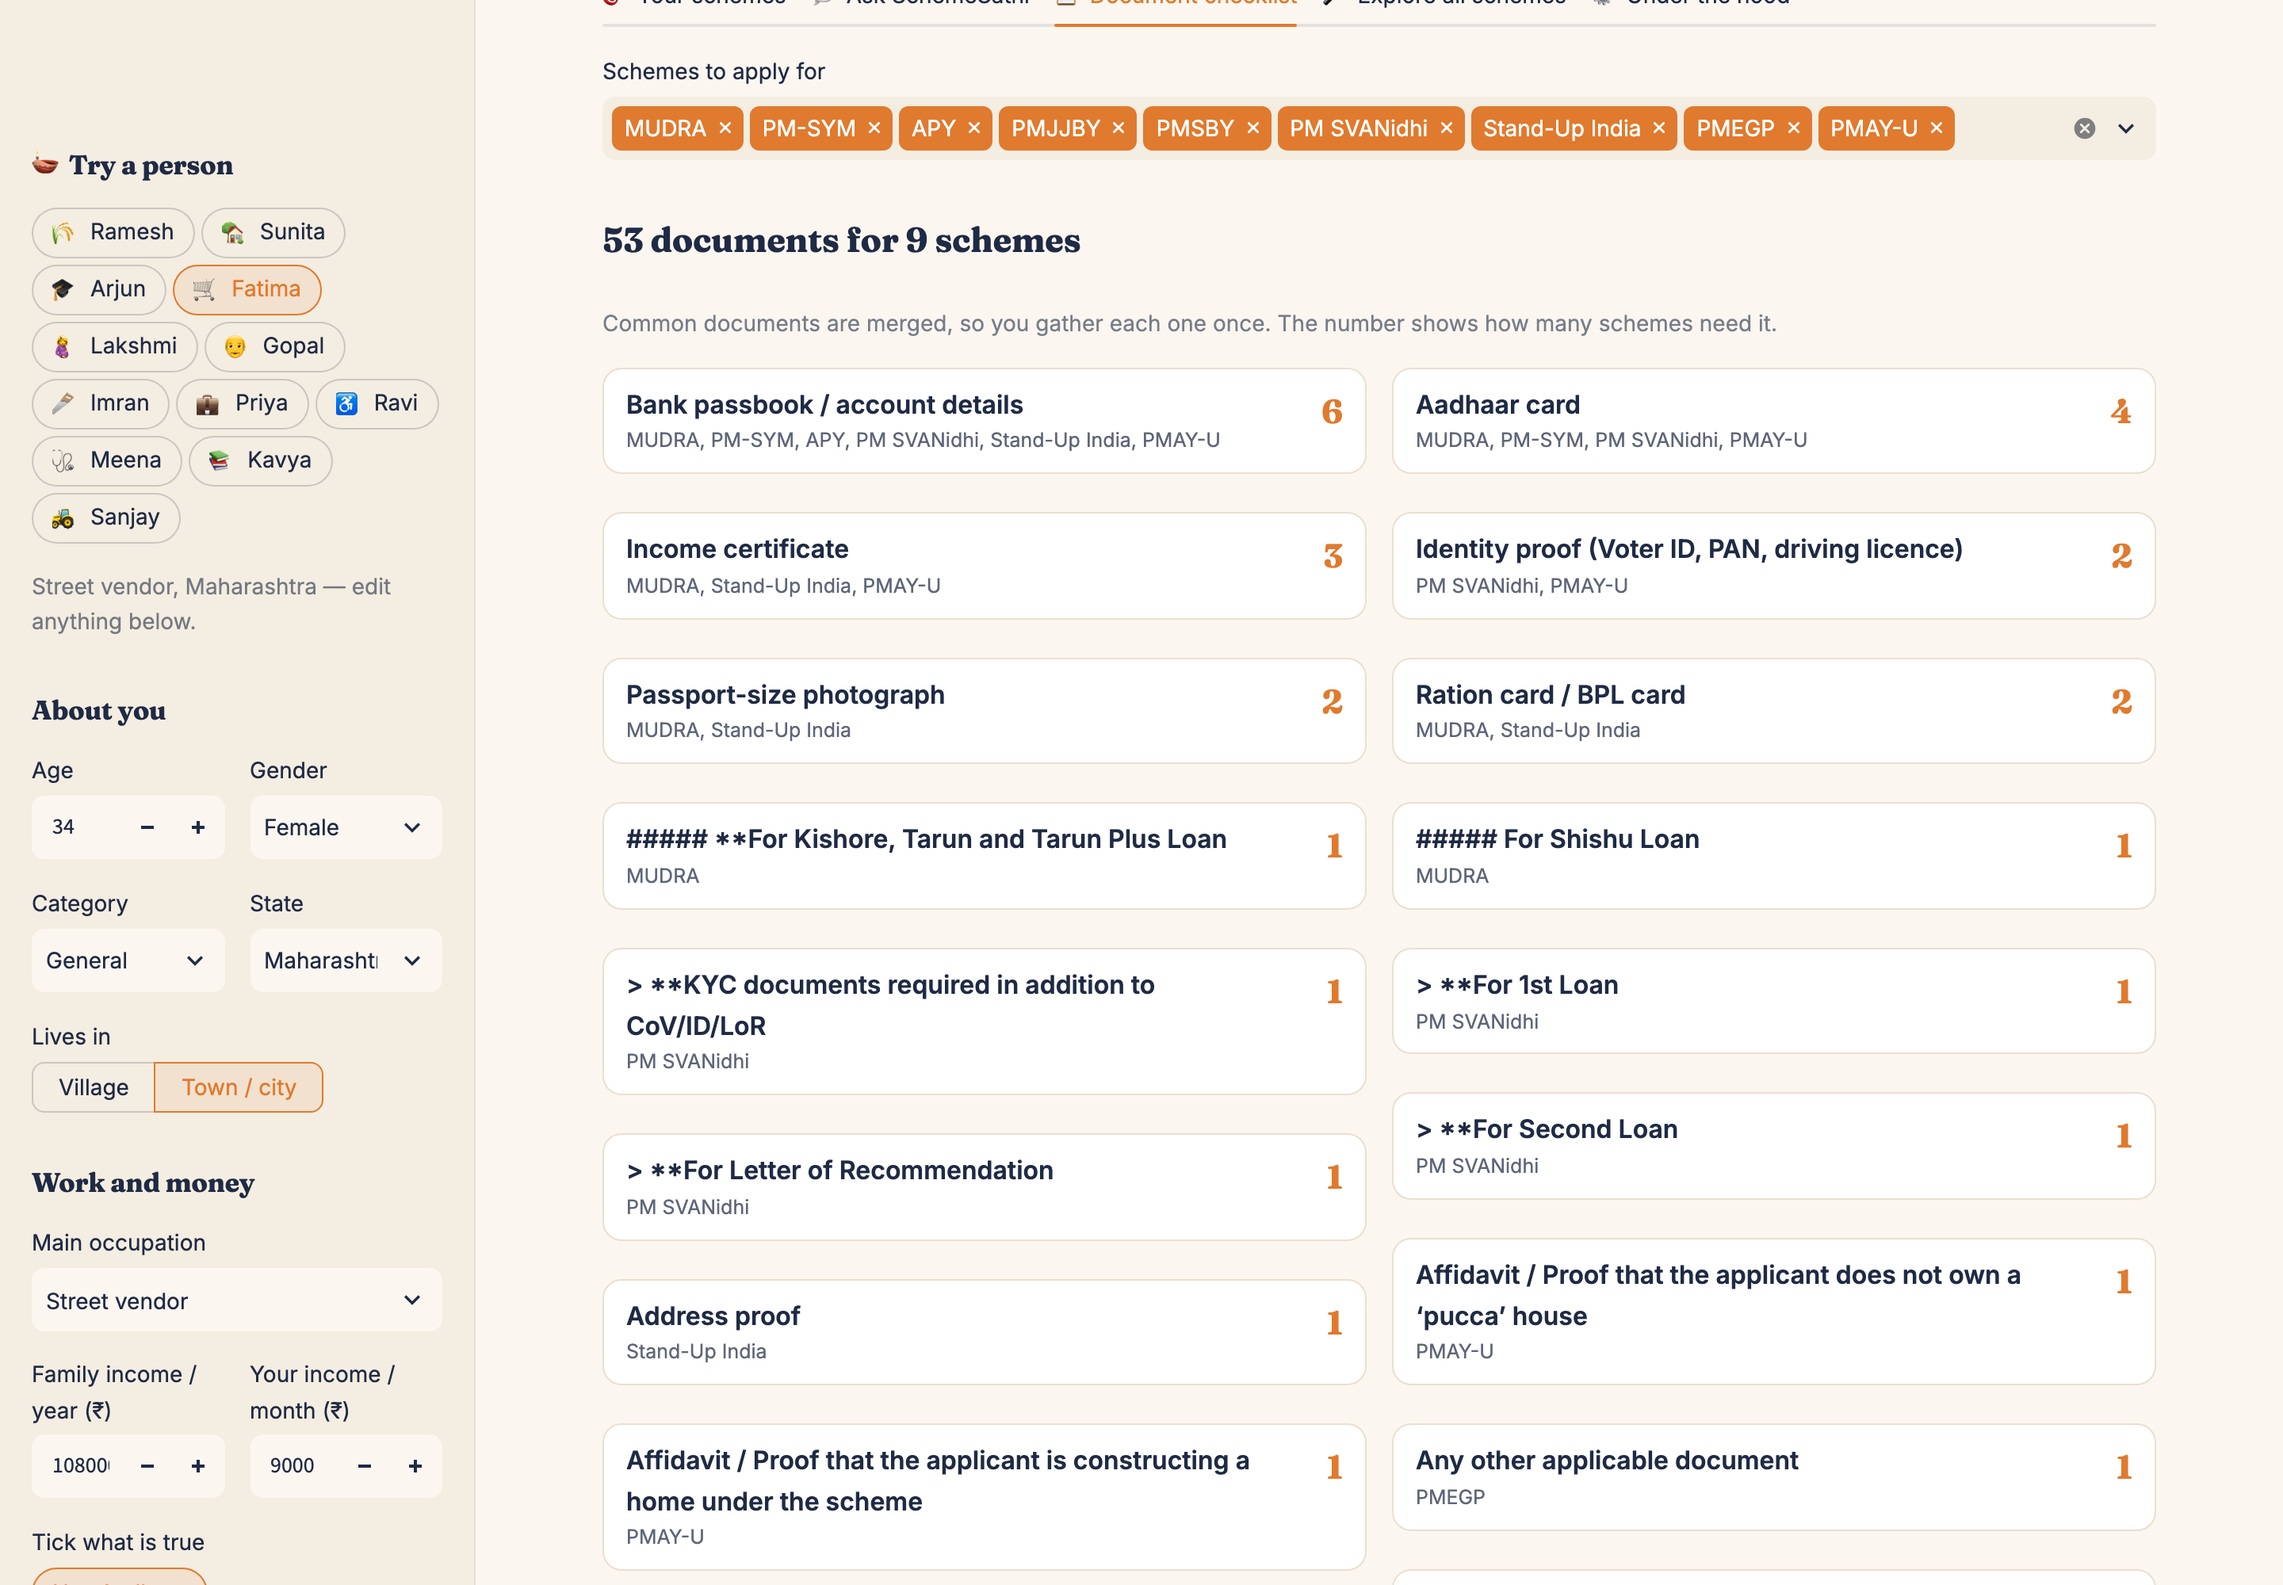
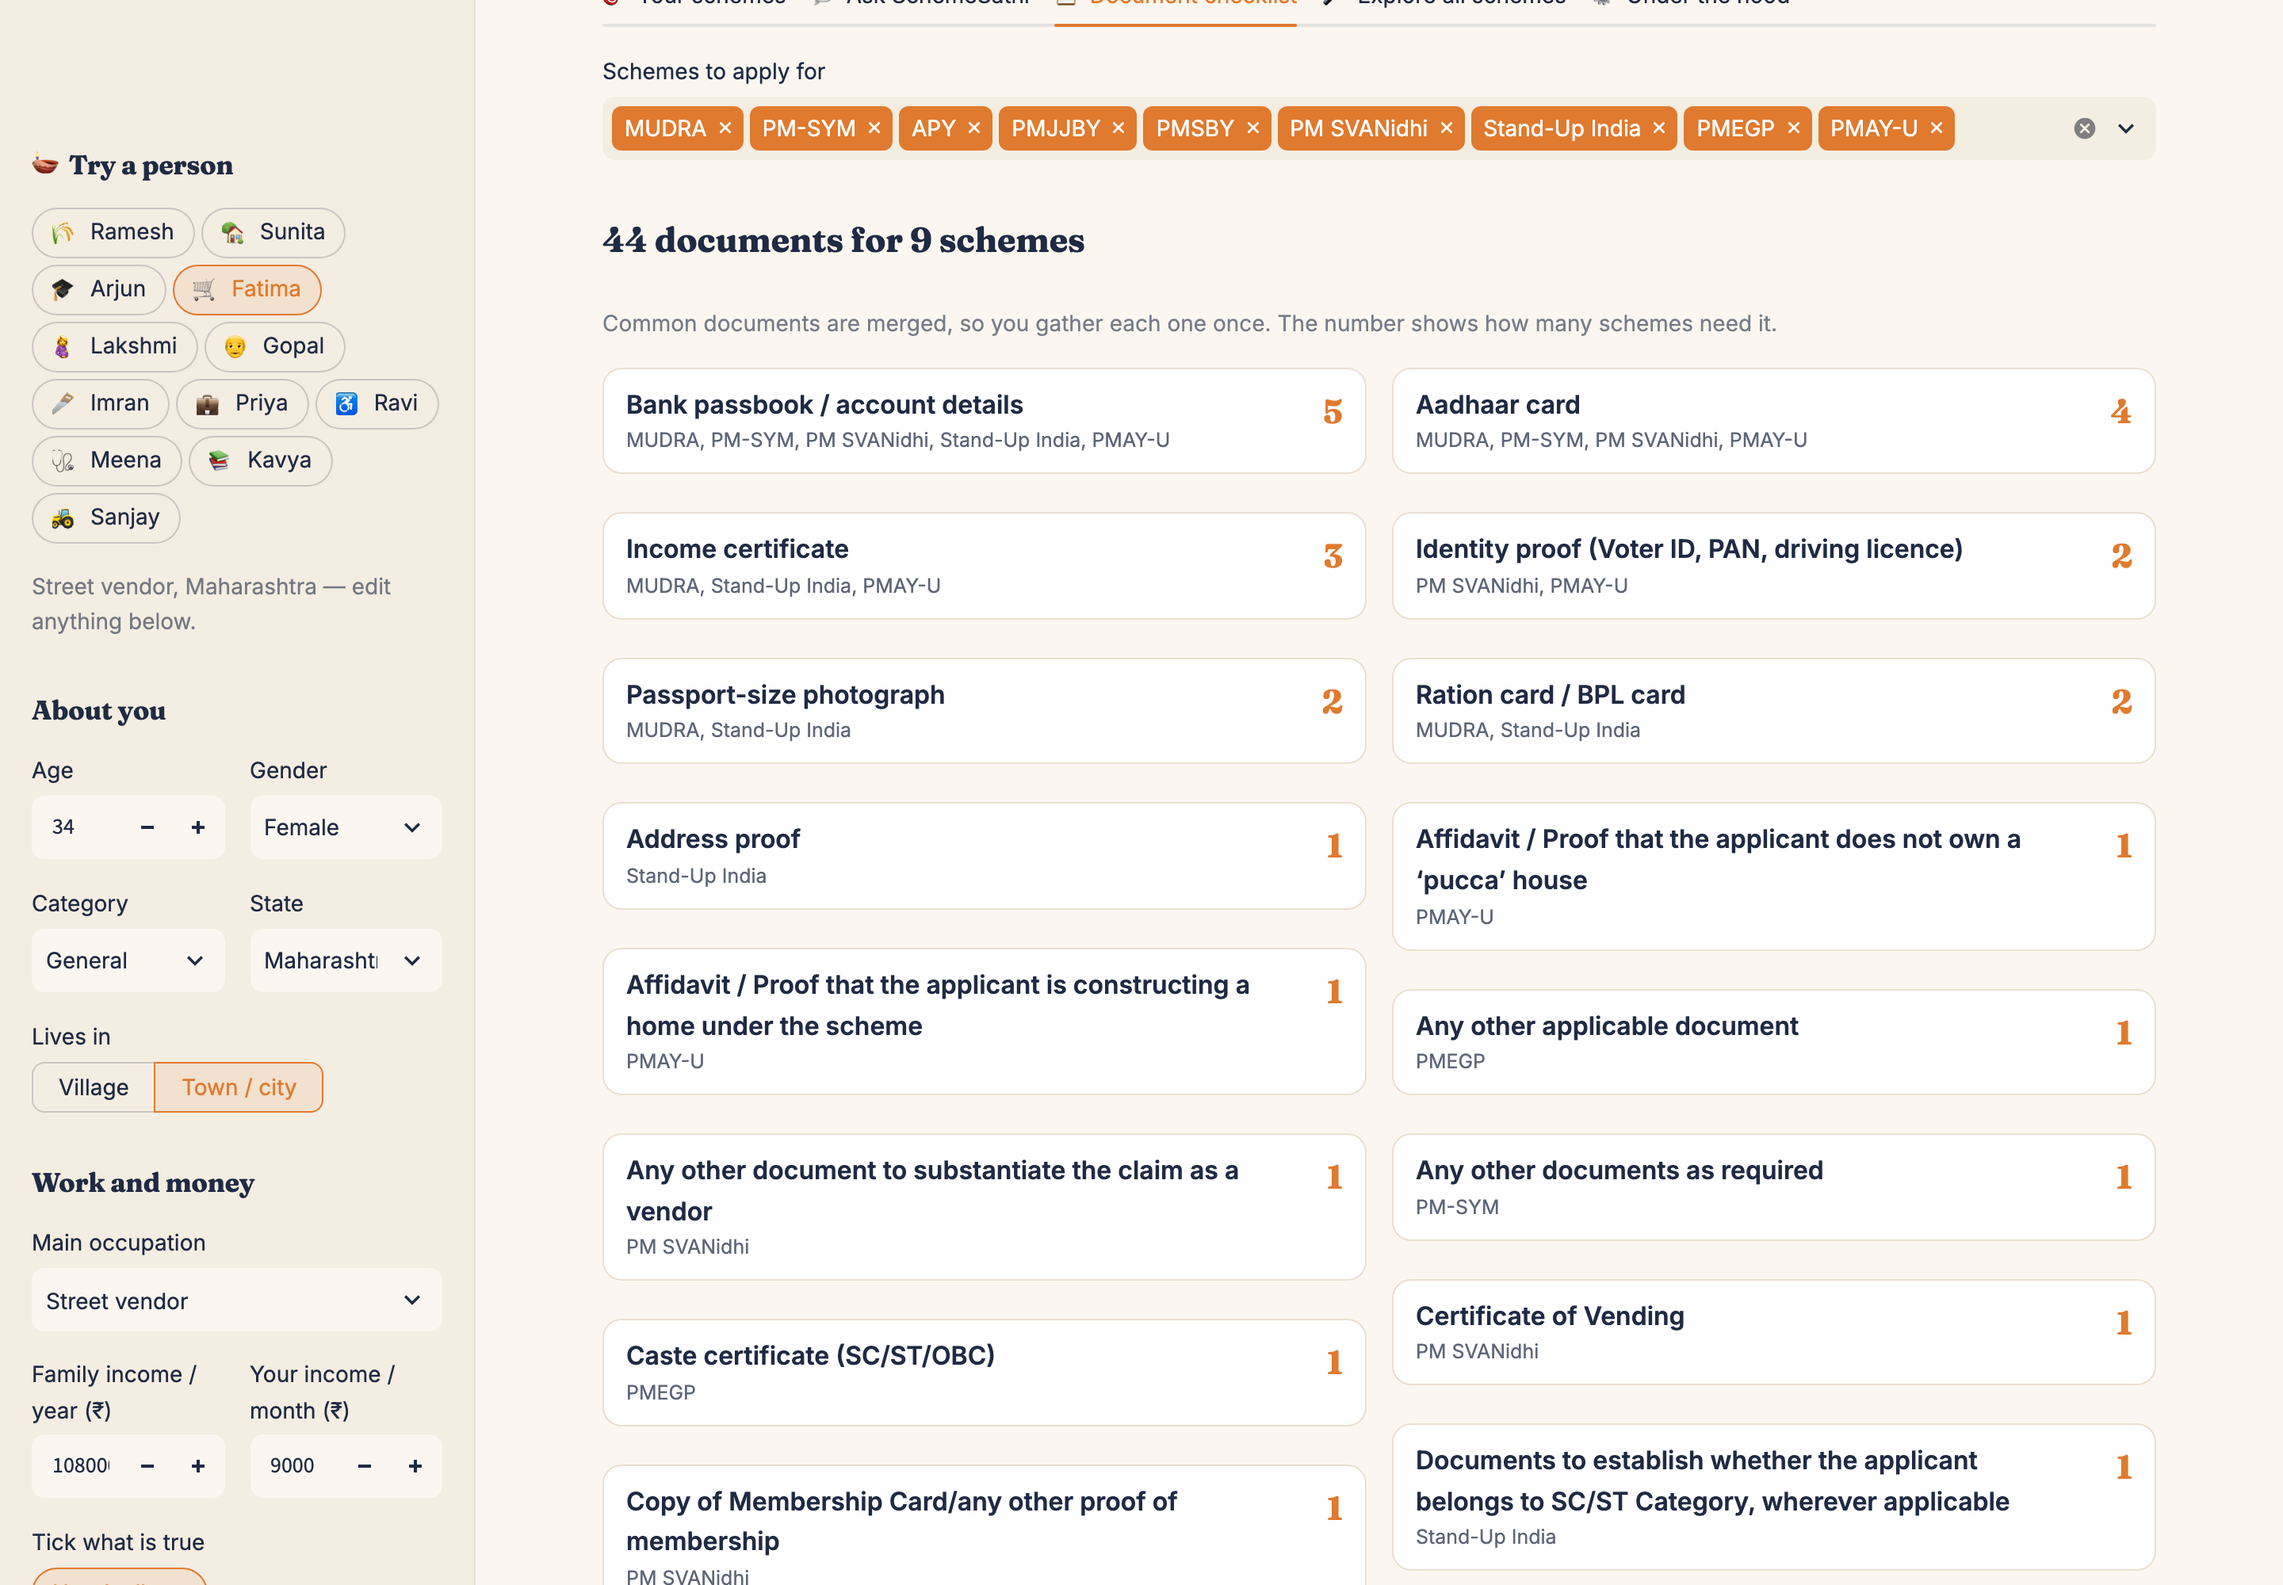
Guardrail: block invented web addresses, require the document tool for document questions, real citations in document lists; cleaner document parsing; app screenshots

diff --git a/schemesathi/agent.py b/schemesathi/agent.py
@@ -12,7 +12,7 @@ import time
 
 from crewai import Agent, Crew, Process, Task
 
-from . import log, tools
+from . import log, rag, tools
 from .llm import make_llm, model_chain
 from .rules import BY_SLUG, SCHEMES, summary
 
@@ -36,7 +36,8 @@ def normalize(text: str) -> str:
     """Models write tags as 【PM‑KISAN · Benefits】 (CJK brackets, non-breaking hyphens): make them plain."""
     text = text.replace("【", "[").replace("】", "]")
     text = re.sub("[\u2010\u2011\u2012\u2013]", "-", text)
-    return re.sub(r"\s?\[(?:check_eligibility|search_schemes|scheme_section|document_checklist|benefit_estimate)\]", "", text)
+    tool_tag = r"\s?\[(?:check|search|scheme|document|benefit)[ _](?:eligibility|schemes|section|checklist|estimate)\]"
+    return re.sub(tool_tag, "", text, flags=re.I)
 
 
 def check_answer(text: str) -> tuple[bool, str]:
@@ -56,6 +57,16 @@ def check_answer(text: str) -> tuple[bool, str]:
     if outside:
         return False, (f"{outside} are not schemes SchemeSathi has official text for. Do not describe them; "
                        "talk only about schemes the tools returned, and point to myScheme.gov.in for others.")
+    links = sorted({d.lower() for d in tools.DOMAIN.findall(text)} - tools.RUN["domains"]
+                   - {"myscheme.gov.in", "www.myscheme.gov.in"})
+    if links:
+        return False, (f"These web addresses are not in the official text you retrieved: {links}. Remove them; "
+                       "give only addresses a tool returned, or myscheme.gov.in.")
+    need = {"Documents Required": ("document_checklist", "scheme_section", "search_schemes"),
+            "Application Process": ("scheme_section", "search_schemes")}.get(rag.intent(tools.RUN.get("question", "")))
+    if need and not set(need) & set(tools.RUN["called"]):
+        return False, (f"The question asks about {rag.intent(tools.RUN['question']).lower()}. Call {need[0]} "
+                       "(or scheme_section) first and answer from the official text, not from memory.")
     total = summary(tools.RUN["results"])["yearly_cash"]
     for amount in re.findall(r"total[^.\n]{0,80}?₹\s?([\d,]+)", text, flags=re.I):
         if int(amount.replace(",", "") or 0) not in (total, 0) and "benefit_estimate" in tools.RUN["called"]:
@@ -106,7 +117,8 @@ def build(question: str, profile: dict, language: str, llm) -> Crew:
             "1. If the question is about what this person can get, call check_eligibility first. Its verdicts are "
             "final: 'eligible', 'likely' (needs one more thing confirmed) or 'not_eligible'. Never change one.\n"
             "2. For facts (amounts, documents, steps, rules) call search_schemes or scheme_section. For a document "
-            "list across schemes call document_checklist. For money questions call benefit_estimate.\n"
+            "list across schemes call document_checklist. For money questions call benefit_estimate. For how and where to "
+            "apply, call scheme_section with 'Application Process'. Never invent offices, websites or documents.\n"
             "3. Talk only about schemes the tools return. If nothing fits, say so honestly and suggest myscheme.gov.in.\n"
             "4. Put a citation tag after every fact, copied exactly from a tool result, e.g. [PM-KISAN · Benefits]. "
             "Never write a tag no tool returned.\n"
@@ -133,7 +145,7 @@ def _strip_bad_citations(text: str) -> str:
 def ask(question: str, profile: dict | None = None, language: str = "en", emit=print) -> dict:
     t0 = time.time()
     run_id = log.start(question, language)
-    tools.reset(run_id, profile or {})
+    tools.reset(run_id, profile or {}, question)
     tools.RUN["retries"] = 0
     answer, used, last_error, verified = None, None, None, True
     tools.RUN["last_raw"] = None

diff --git a/schemesathi/tools.py b/schemesathi/tools.py
@@ -9,12 +9,15 @@ from crewai.tools import tool
 from . import log, rag
 from .rules import BY_SLUG, SCHEMES, evaluate, summary
 
-RUN = {"run_id": None, "profile": {}, "results": [], "citations": set(), "called": [], "seen": set()}
+RUN = {"run_id": None, "profile": {}, "results": [], "citations": set(), "called": [], "seen": set(),
+       "domains": set(), "question": ""}
+DOMAIN = re.compile(r"\b(?:[a-z0-9-]+\.)+(?:gov\.in|nic\.in|co\.in|org\.in|com|in|org|net)\b", re.I)
 _SHORT = {s.short.lower(): s.slug for s in SCHEMES}
 
 
-def reset(run_id, profile):
-    RUN.update(run_id=run_id, profile=profile or {}, results=evaluate(profile or {}), citations=set(), called=[], seen=set())
+def reset(run_id, profile, question=""):
+    RUN.update(run_id=run_id, profile=profile or {}, results=evaluate(profile or {}), citations=set(), called=[],
+               seen=set(), domains=set(), question=question)
 
 
 def _slug(name: str) -> str | None:
@@ -30,6 +33,7 @@ def _logged(fn):
         try:
             out = fn(*args, **kwargs)
             RUN["seen"].update(re.findall(r"\b[A-Z][A-Z\-]{2,}\b", out))   # terms the official text used
+            RUN["domains"].update(d.lower() for d in DOMAIN.findall(out))   # web addresses it mentions
             log.event(RUN["run_id"], "tool_call", fn.__name__, json.dumps([args, kwargs])[:300], (time.time() - t0) * 1000)
             return out
         except Exception as exc:  # noqa: BLE001
@@ -92,7 +96,9 @@ def document_checklist(schemes: str) -> str:
     """One combined, de-duplicated list of documents for several schemes (comma-separated short names)."""
     slugs = [x for x in (_slug(n) for n in schemes.split(",")) if x]
     RUN["citations"].update(rag.tag(BY_SLUG[x].short, "Documents Required") for x in slugs)
-    return json.dumps(rag.documents(slugs)[:30], ensure_ascii=False)
+    docs = [{"document": d["document"], "for": d["for"]} for d in rag.documents(slugs)[:30]]
+    cites = [rag.tag(BY_SLUG[x].short, "Documents Required") for x in slugs]
+    return json.dumps({"cite_with": cites, "documents": docs}, ensure_ascii=False)
 
 
 @tool("benefit_estimate")

diff --git a/tests/test_core.py b/tests/test_core.py
@@ -116,7 +116,7 @@ def test_rich_text_documents_are_converted():
 def run():
     tools.reset(0, BY_ID["ramesh"]["profile"])
     tools.RUN["citations"] = {"[PM-KISAN · Benefits]", "[KCC · Eligibility]", "[PM-SYM · Eligibility]"}
-    tools.RUN["called"], tools.RUN["seen"] = [], set()
+    tools.RUN["called"], tools.RUN["seen"], tools.RUN["domains"], tools.RUN["question"] = [], set(), set(), ""
     return tools.RUN
 
 
@@ -158,8 +158,22 @@ def test_guardrail_checks_the_cash_total(run):
     assert agent.check_answer("Your total is ₹6,000 a year [PM-KISAN · Benefits].")[0]
 
 
+def test_guardrail_blocks_invented_web_addresses(run):
+    assert not agent.check_answer("Apply on mangalmart.com [PM-KISAN · Benefits].")[0]
+    run["domains"] = {"pmkisan.gov.in"}
+    assert agent.check_answer("Apply on pmkisan.gov.in or myscheme.gov.in [PM-KISAN · Benefits].")[0]
+
+
+def test_document_questions_need_the_document_tool(run):
+    run["question"] = "What documents do I need?"
+    ok, why = agent.check_answer("Bring Aadhaar [PM-KISAN · Benefits].")
+    assert not ok and "document_checklist" in why
+    run["called"].append("document_checklist")
+    assert agent.check_answer("Bring Aadhaar [PM-KISAN · Benefits].")[0]
+
+
 def test_tool_names_are_removed_from_answers(run):
-    assert "[benefit_estimate]" not in agent.normalize("Total ₹6,000 [benefit_estimate]")
+    assert agent.normalize("Total ₹6,000 [benefit_estimate]. Aadhaar [Document checklist].") == "Total ₹6,000. Aadhaar."
 
 
 def test_check_eligibility_tool_output(run):
